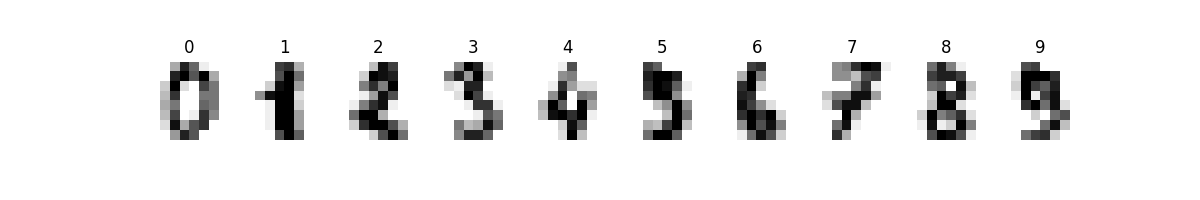
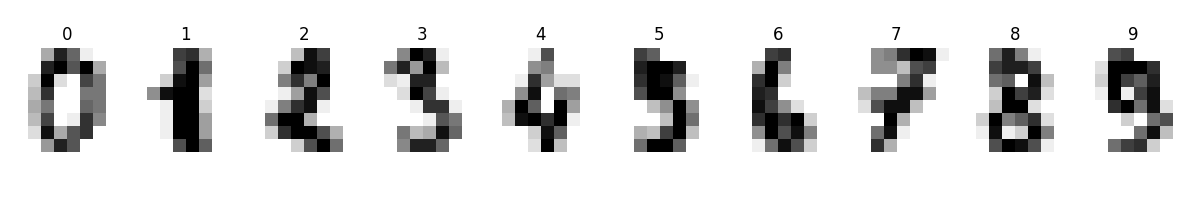
Update Assignment 3 warmup PCA plots

diff --git a/assignments_03/warmup_03.py b/assignments_03/warmup_03.py
@@ -105,6 +105,7 @@ display = ConfusionMatrixDisplay(
 
 display.plot()
 
+plt.tight_layout()
 plt.savefig("assignments_03/outputs/knn_confusion_matrix.png")
 plt.close()
 
@@ -176,6 +177,7 @@ for digit in range(10):
     axes[digit].set_title(str(digit))
     axes[digit].axis("off")
 
+plt.tight_layout()
 plt.savefig("assignments_03/outputs/sample_digits.png")
 plt.close()
 
@@ -197,6 +199,7 @@ scatter = plt.scatter(
 plt.colorbar(scatter, label="Digit")
 plt.xlabel("Principal Component 1")
 plt.ylabel("Principal Component 2")
+plt.title("PCA 2D Projection of Digits")
 
 plt.savefig("assignments_03/outputs/pca_2d_projection.png")
 plt.close()
@@ -206,7 +209,10 @@ plt.close()
 # Question 3
 cumulative_variance = np.cumsum(pca.explained_variance_ratio_)
 
-plt.plot(cumulative_variance)
+plt.plot(
+    range(1, len(cumulative_variance) + 1),
+    cumulative_variance
+)
 
 plt.xlabel("Number of Components")
 plt.ylabel("Cumulative Explained Variance")
@@ -236,7 +242,7 @@ for i in range(5):
     axes[0, i].set_title(str(y_digits[i]))
     axes[0, i].axis("off")
 
-axes[0, 0].set_ylabel("Original")
+axes[0, 0].set_ylabel("Original", fontsize=10)
 
 # Reconstruction rows
 for row, n in enumerate(component_values, start=1):
@@ -246,8 +252,7 @@ for row, n in enumerate(component_values, start=1):
         axes[row, i].imshow(reconstructed_image, cmap="gray_r")
         axes[row, i].axis("off")
 
-    axes[row, 0].set_ylabel("n = " + str(n))
-
+    axes[row, 0].set_ylabel("n = " + str(n), fontsize=10)
 plt.tight_layout()
 plt.savefig("assignments_03/outputs/pca_reconstructions.png")
 plt.close()
